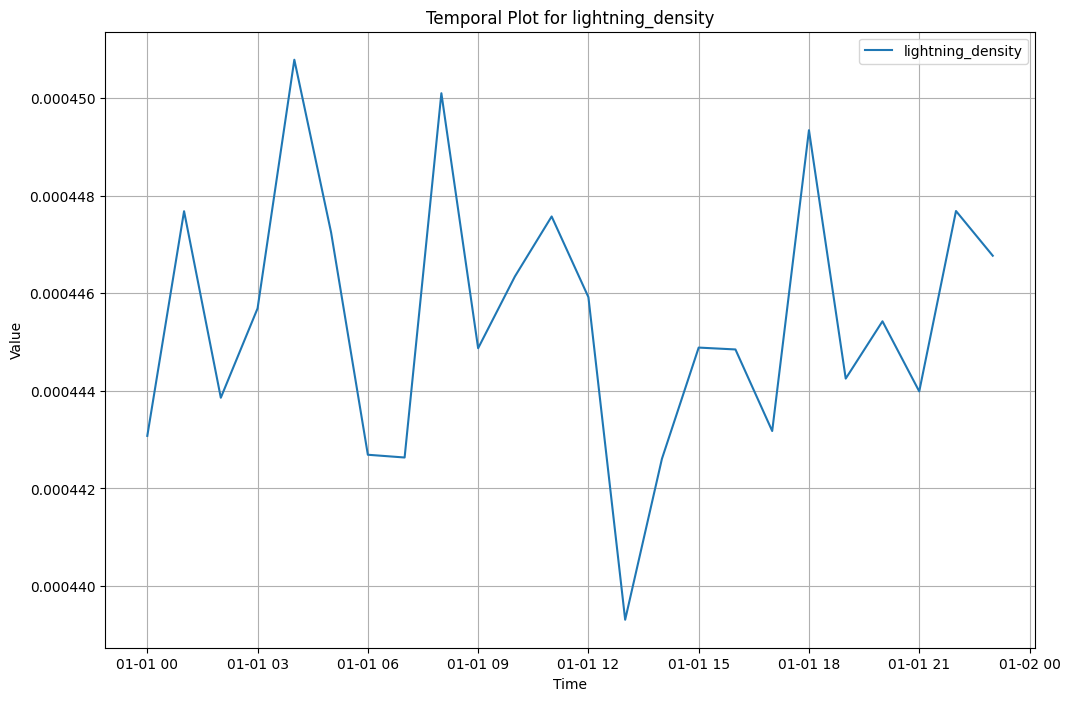
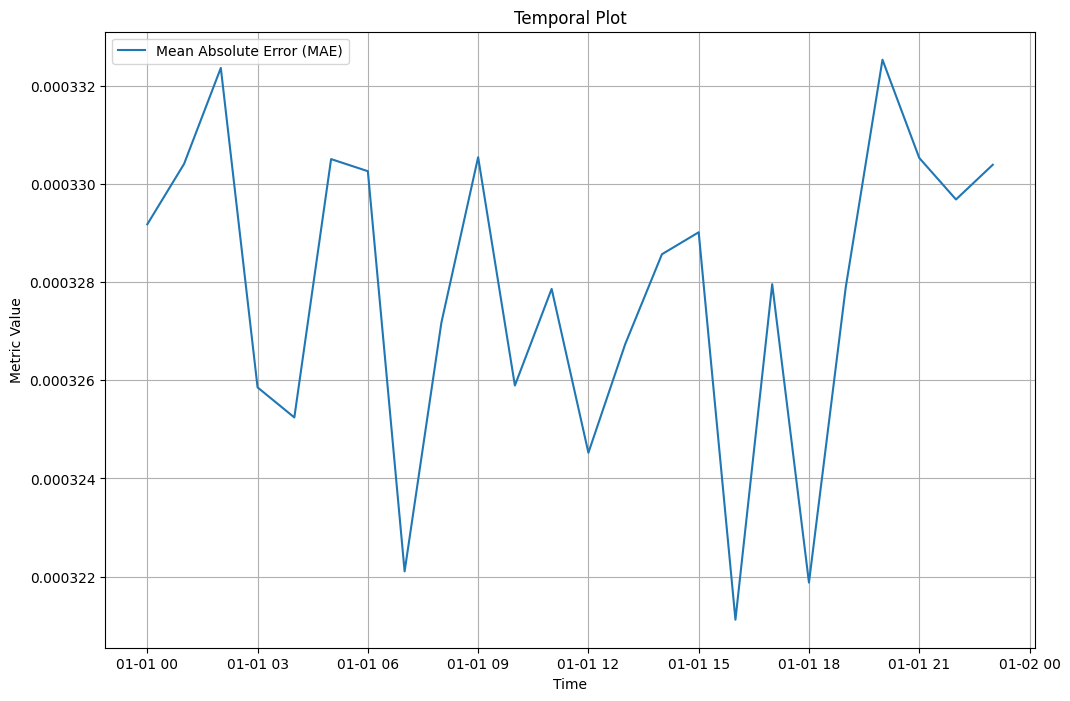
added different plots functionality

diff --git a/atmos-app/src/pages/Home.js b/atmos-app/src/pages/Home.js
@@ -9,7 +9,7 @@ function Home() {
   const [selectedMetrics, setSelectedMetrics] = useState([]);
   const [calcMode, setCalcMode] = useState('overall'); // Default mode
   const [evaluationResults, setEvaluationResults] = useState(null);
-  const [plotImage, setPlotImage] = useState(null);
+  const [plotImages, setPlotImages] = useState(null);
   const [isLoading, setIsLoading] = useState(false);
 
   const handleEvaluate = () => {
@@ -25,7 +25,7 @@ function Home() {
       .post('http://localhost:5000/evaluate', formData)
       .then((response) => {
         setEvaluationResults(response.data.results);
-        setPlotImage(`http://localhost:5000${response.data.plotUrl}`);
+        setPlotImages(response.data.plotUrls);
       })
       .catch(() => alert('Evaluation failed.'))
       .finally(() => setIsLoading(false));
@@ -76,10 +76,28 @@ function Home() {
         </div>
       )}
 
-      {plotImage && (
-        <div className="mt-8 text-center">
-          <h2 className="text-2xl font-semibold mb-4">Generated Plot</h2>
-          <img src={plotImage} alt="Generated Plot" className="inline-block rounded-lg shadow-md" />
+      {plotImages && (
+        <div className="mt-8">
+          <h2 className="text-2xl font-semibold mb-4">Generated Plots</h2>
+          {calcMode === 'spatial' && plotImages.spatial && (
+            <div className="grid grid-cols-1 md:grid-cols-2 gap-4">
+              {plotImages.spatial.map((plotUrl, index) => (
+                <img
+                  key={index}
+                  src={`http://localhost:5000${plotUrl}`}
+                  alt={`Spatial Plot ${index + 1}`}
+                  className="rounded-lg shadow-md"
+                />
+              ))}
+            </div>
+          )}
+          {calcMode === 'temporal' && plotImages.temporal && (
+            <img
+              src={`http://localhost:5000${plotImages.temporal}`}
+              alt="Temporal Plot"
+              className="rounded-lg shadow-md"
+            />
+          )}
         </div>
       )}
     </div>

diff --git a/backend/app.py b/backend/app.py
@@ -1,4 +1,4 @@
-from flask import Flask, request, jsonify, send_file, send_from_directory
+from flask import Flask, request, jsonify, send_from_directory
 from flask_cors import CORS
 import os
 import numpy as np
@@ -35,7 +35,7 @@ def evaluate():
         return jsonify({'error': 'Missing files or parameters'}), 400
 
     metrics = json.loads(metrics)
-    calc_mode = calc_mode.lower()  # Convert to lowercase for easier handling
+    calc_mode = calc_mode.lower()
     metric_functions = {
         'Mean Absolute Error (MAE)': calculate_mae,
         'Root Mean Square Error (RMSE)': calculate_rmse,
@@ -58,73 +58,71 @@ def evaluate():
 
         sim_data, obs_data = xr.align(sim_data, obs_data, join='inner')
 
-        # Calculate metrics
         results = {}
-        for metric in metrics:
-            func = metric_functions.get(metric)
-            if not func:
-                results[metric] = 'Metric not implemented'
-                continue
-
-            if calc_mode == 'spatial':
-                result = func(sim_data, obs_data).mean(dim='time').values
-            elif calc_mode == 'temporal':
-                result = func(sim_data, obs_data).mean(dim=['lat', 'lon']).values
-            else:  # Overall
-                result = func(sim_data, obs_data).mean().values
-
-            results[metric] = result.tolist() if isinstance(result, np.ndarray) else float(result)
-
-        # Generate plot based on calculation mode
         plot_filepath = os.path.join(app.config['UPLOAD_FOLDER'], 'metric_plot.png')
+
         if calc_mode == 'spatial':
-            # Spatial plot at t=0
-            spatial_data = obs_data.isel(time=0).squeeze()
-            lat = spatial_data.coords['lat'].values
-            lon = spatial_data.coords['lon'].values
-
             plt.figure(figsize=(12, 8))
-            ax = plt.axes(projection=ccrs.PlateCarree())
-            mesh = ax.pcolormesh(lon, lat, spatial_data, cmap='viridis', transform=ccrs.PlateCarree())
-            ax.add_feature(cfeature.LAND, edgecolor='black')
-            ax.add_feature(cfeature.COASTLINE)
-            plt.colorbar(mesh, ax=ax, orientation='vertical', label='Value')
-            plt.title(f'Spatial Plot for {variable_name} at t=0')
+            for metric in metrics:
+                func = metric_functions.get(metric)
+                if func:
+                    # Flatten time dimension for spatial calculation
+                    metric_data = func(sim_data, obs_data).mean(dim='time')
+                    lat = metric_data.coords['lat'].values
+                    lon = metric_data.coords['lon'].values
+                    ax = plt.axes(projection=ccrs.PlateCarree())
+                    mesh = ax.pcolormesh(
+                        lon,
+                        lat,
+                        metric_data,
+                        cmap='viridis',
+                        transform=ccrs.PlateCarree(),
+                    )
+                    ax.add_feature(cfeature.LAND, edgecolor='black')
+                    ax.add_feature(cfeature.COASTLINE)
+                    plt.colorbar(mesh, ax=ax, orientation='vertical', label=metric)
+                    plt.title(f'Spatial Plot for {metric}')
+                    plt.savefig(
+                        os.path.join(app.config['UPLOAD_FOLDER'], f'spatial_{metric}.png'),
+                        bbox_inches='tight',
+                    )
+                    plt.close()
+
         elif calc_mode == 'temporal':
-            # Temporal plot (mean over spatial dimensions)
-            temporal_data = obs_data.mean(dim=['lat', 'lon']).values
-            time = obs_data.coords['time'].values
-
             plt.figure(figsize=(12, 8))
-            plt.plot(time, temporal_data, label=f'{variable_name}')
+            for metric in metrics:
+                func = metric_functions.get(metric)
+                if func:
+                    # Mean over spatial dimensions
+                    temporal_data = func(sim_data, obs_data).mean(dim=['lat', 'lon']).values
+                    time = obs_ds.coords['time'].values
+                    plt.plot(time, temporal_data, label=metric)
             plt.xlabel('Time')
-            plt.ylabel('Value')
-            plt.title(f'Temporal Plot for {variable_name}')
-            plt.grid()
+            plt.ylabel('Metric Value')
+            plt.title(f'Temporal Plot')
             plt.legend()
+            plt.grid()
+            plt.savefig(plot_filepath, bbox_inches='tight')
+            plt.close()
+
         else:  # Overall
-            # Placeholder for overall summary or heatmap
-            overall_data = obs_data.mean(dim='time').squeeze()
-            lat = overall_data.coords['lat'].values
-            lon = overall_data.coords['lon'].values
-
-            plt.figure(figsize=(12, 8))
-            ax = plt.axes(projection=ccrs.PlateCarree())
-            mesh = ax.pcolormesh(lon, lat, overall_data, cmap='viridis', transform=ccrs.PlateCarree())
-            ax.add_feature(cfeature.LAND, edgecolor='black')
-            ax.add_feature(cfeature.COASTLINE)
-            plt.colorbar(mesh, ax=ax, orientation='vertical', label='Value')
-            plt.title(f'Overall Spatial Plot for {variable_name}')
-
-        plt.savefig(plot_filepath, bbox_inches='tight')
-        plt.close()
+            overall_results = {}
+            for metric in metrics:
+                func = metric_functions.get(metric)
+                if func:
+                    result = func(sim_data, obs_data).mean().values
+                    overall_results[metric] = result.tolist() if isinstance(result, np.ndarray) else float(result)
+            results.update(overall_results)
 
         sim_ds.close()
         obs_ds.close()
 
         return jsonify({
             'results': results,
-            'plotUrl': '/uploads/metric_plot.png'
+            'plotUrls': {
+                'spatial': [f'/uploads/spatial_{metric}.png' for metric in metrics] if calc_mode == 'spatial' else None,
+                'temporal': '/uploads/metric_plot.png' if calc_mode == 'temporal' else None,
+            },
         }), 200
 
     except Exception as e:
